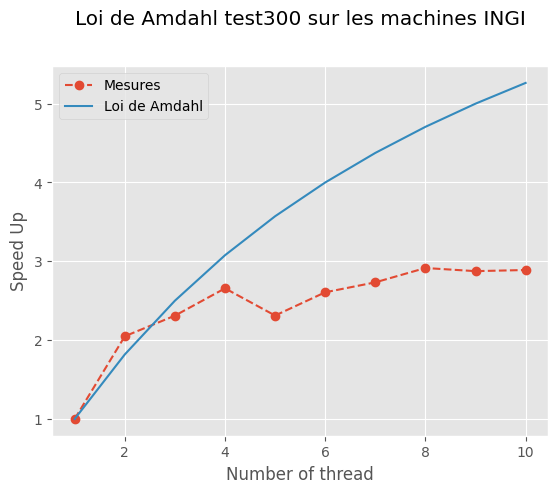
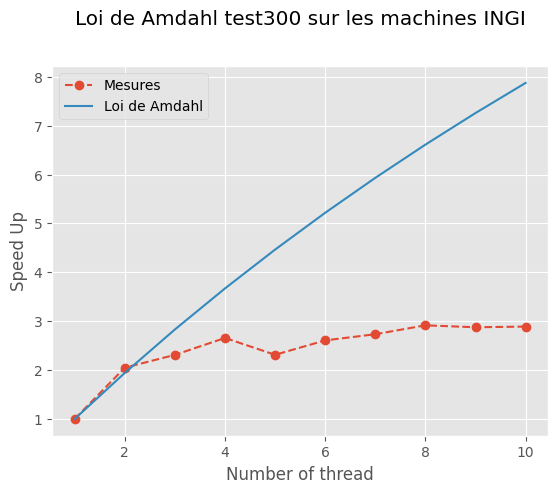
reparation graph v3

diff --git a/PYTHON/INGI_transcripter.py b/PYTHON/INGI_transcripter.py
@@ -67,7 +67,7 @@ def grapher_Amdahl(mean_arr,In) :
     mean_arr = asarray(mean_arr)
     ax = plt.subplot()
     Number_of_thread = arange(1,len(mean_arr)+1)
-    Fraction_of_thread = 0.90
+    Fraction_of_thread = 0.97
     Gain =  1/((1-Fraction_of_thread)+(Fraction_of_thread/Number_of_thread))
     ax.set_xlabel("Number of thread")
     ax.set_ylabel("Speed Up")
